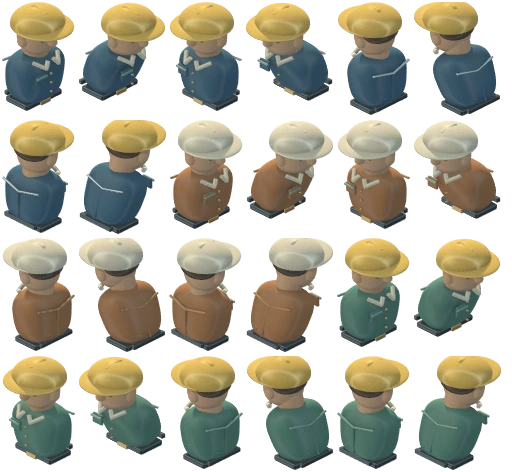
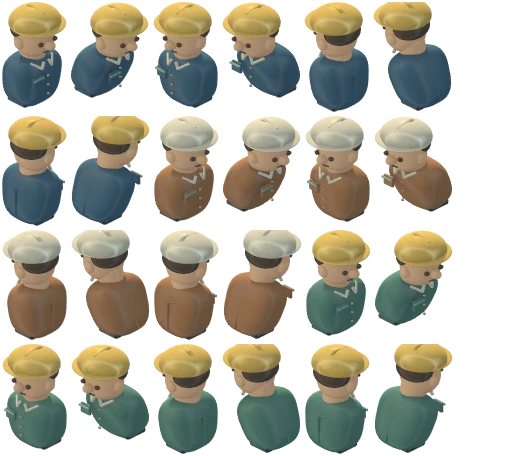
Refine miniature faces and use the supported WebKit runner image

diff --git a/factory-prototype/art-source/miniature.py b/factory-prototype/art-source/miniature.py
@@ -34,7 +34,7 @@ material('glass','bbd3c6',.10,.25,5)
 material('lamp','ffe4a5',.02,.3,5)
 material('shade','2a494b',.1,.62)
 material('gasket','373e40',.05,.6)
-material('skin','d5aa83',.01,.65)
+material('skin','dfb389',.01,.65,8)
 material('hair','58493d',0,.74)
 material('denim','42677d',.02,.69,1)
 material('canvas','a8764f',.02,.73,1)
@@ -231,16 +231,15 @@ def crew(s,person,facing,work):
     jacket_axes=[[1,0,0],[0,slope[2],-slope[1]],slope]
     s.add(8,coat,(0,lean*.5,.533),(.186,.121,.194),.058,jacket_axes)
     # A reinforced yoke, center seam and rear belt are visible while leaning into the machine.
-    yoke=('steel','oak','mint')[person]
-    s.chain([(-.139,lean*.84-.116,.655),(0,lean*.84-.134,.625),(.139,lean*.84-.116,.655)],.007,yoke)
+    yoke=('denim','canvas','twill')[person]
+    s.chain([(-.119,lean*.84-.091,.655),(0,lean*.84-.121,.625),(.119,lean*.84-.091,.655)],.007,yoke)
     s.chain([(0,lean*.84-.135,.624),(0,lean*.50-.125,.53),(0,lean*.18-.115,.424)],.006,coat)
     s.chain([(-.083,lean*.3-.103,.462),(-.053,lean*.3-.115,.448)],.008,coat)
-    s.box(-.140,lean*.29-.084,.342,.28,.168,.042,'dark',.013)
-    s.box(-.037,lean*.29+.084,.345,.074,.012,.030,'brass',.004)
+    s.box(-.119,lean*.29-.073,.362,.238,.146,.040,'dark',.018)
+    s.box(-.027,lean*.29+.073,.368,.054,.012,.023,'brass',.004)
     s.rod((0,lean-.01,.685),(0,lean+.012,.802),.074,'skin')
     for side in (-1,1):
-        s.chain([(side*.096,lean+.068,.704),(side*.047,lean+.126,.664),(side*.020,lean+.112,.706)],.013,'cream')
-    s.box(-.121,lean*.19-.111,.372,.24,.025,.032,'dark',.006)
+        s.chain([(side*.084,lean+.061,.704),(side*.037,lean+.106,.664),(side*.018,lean+.102,.706)],.009,'cream')
     s.box(.042,lean+.103,.548,.073,.018,.075,coat,.008)
     s.box(.04,lean+.120,.60,.078,.012,.014,'mint',.003)
     for z in (.46,.53,.60):s.ball((0,lean*.68+.125,z),.008,'brass')
@@ -249,11 +248,12 @@ def crew(s,person,facing,work):
     egg((0,head-.043,neck+.063),(.116,.090,.087),'hair')
     for side in (-1,1):
         egg((side*.112,head-.004,neck),(.027,.033,.041),'skin')
-        egg((side*.052,head+.092,neck+.021),(.014,.010,.010),'hair')
-    egg((0,head+.106,neck+.001),(.028,.043,.035),'skin')
-    egg((0,head+.004,neck+.096),(.156,.152,.114),cap,True)
-    egg((0,head+.038,neck+.089),(.167,.183,.026),cap)
-    s.chain([(0,head-.092,neck+.154),(0,head-.028,neck+.205),(0,head+.072,neck+.190)],.012,cap)
+        egg((side*.053,head+.105,neck+.010),(.017,.014,.015),'hair')
+    egg((0,head+.116,neck-.012),(.030,.040,.032),'skin')
+    s.chain([(-.027,head+.096,neck-.064),(0,head+.104,neck-.066),(.027,head+.096,neck-.064)],.005,'hair')
+    egg((0,head+.004,neck+.123),(.151,.142,.105),cap,True)
+    egg((0,head+.024,neck+.115),(.159,.156,.019),cap)
+    s.chain([(0,head-.092,neck+.183),(0,head-.028,neck+.227),(0,head+.072,neck+.208)],.012,cap)
     dx,dy=((1,0),(0,1),(-1,0),(0,-1))[facing]
     orientation=np.array([[-dy,dx,0],[dx,dy,0],[0,0,1]])
     rotated=[]

diff --git a/factory-prototype/art-source/bake.cpp b/factory-prototype/art-source/bake.cpp
@@ -133,6 +133,7 @@ V shade(int id,V p,V eye,uint32_t& seed,int rays){
   float nl=max(0.f,dot(n,key)),up=sat(n.z*.50+.50);
   V fill=V{.24f,.30f,.37f}*ao+V{.26f,.26f,.23f}*(ao*up);
   fill=fill+V{.38f,.32f,.24f}*(ao*max(0.f,dot(n,unit({-.4f,1.f,.38f}))));
+  if(m.texture==8)fill=fill+V{.18f,.13f,.09f};
   V sun=V{2.05f,1.62f,1.11f}*(nl*vis);
   V reflection=n*(2*dot(n,eye))-eye;
   float rough=m.rough,band=powf(max(0.f,dot(reflection,unit({-.50f,.72f,.56f}))),3.5f/(rough+.055f));
